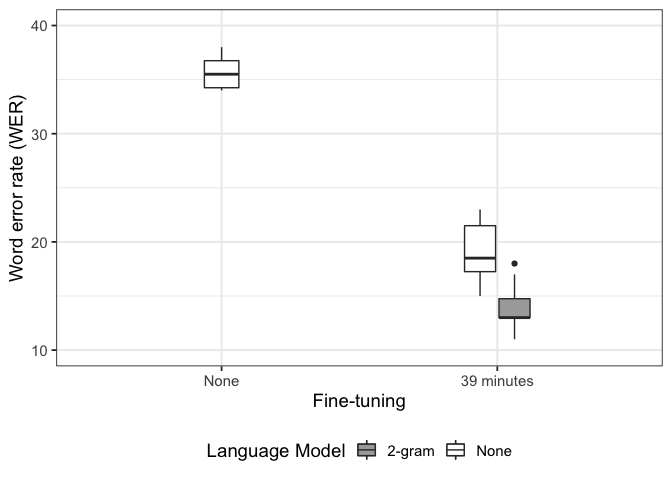
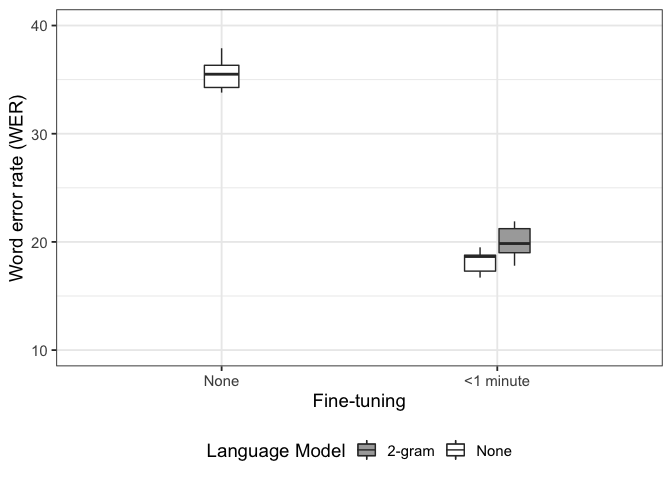
Update with new evaluations

Changed region(s): [[0.6875, 0.4688, 0.8125, 0.6875], [0.6875, 0.7812, 0.8125, 0.8125], [0.3125, 0.125, 0.375, 0.1875]]

diff --git a/scripts/exp_asr-eval.py b/scripts/exp_asr-eval.py
@@ -86,8 +86,8 @@ for model_path, testset_path in EVAL_MODELS_DATASETS:
         "model" : os.path.basename(model_path),
         "model_lm" : type(processor).__name__ == 'Wav2Vec2ProcessorWithLM',
         "testset" : os.path.basename(testset_path),
-        "wer" : round(wer(test_ds['sentence'], test_ds['transcription']), 2),
-        "cer" : round(cer(test_ds['sentence'], test_ds['transcription']), 2)
+        "wer" : round(wer(test_ds['sentence'], test_ds['transcription']), 3),
+        "cer" : round(cer(test_ds['sentence'], test_ds['transcription']), 3)
     })
 
 results_df = pd.DataFrame(EVAL_RESULTS)

diff --git a/evals/README.md b/evals/README.md
@@ -1,7 +1,7 @@
 SLI-ASR Evaluations
 ================
 Nay San
-15 April, 2022
+23 April, 2022
 
 ``` r
 library(tidyverse)
@@ -108,14 +108,17 @@ asr_results %>%
   knitr::kable()
 ```
 
-| model                              | model\_lm | testset  |  wer |  cer |
-|:-----------------------------------|:----------|:---------|-----:|-----:|
-| train-100                          | FALSE     | test.tsv | 0.11 | 0.05 |
-| train-80                           | FALSE     | test.tsv | 0.13 | 0.05 |
-| train-60                           | FALSE     | test.tsv | 0.16 | 0.06 |
-| train-40                           | FALSE     | test.tsv | 0.37 | 0.14 |
-| train-20                           | FALSE     | test.tsv | 0.98 | 0.78 |
-| wav2vec2-large-robust-ft-swbd-300h | FALSE     | test.tsv | 0.37 | 0.22 |
+| model                              | model\_lm | testset  |   wer |   cer |
+|:-----------------------------------|:----------|:---------|------:|------:|
+| train-100                          | FALSE     | test.tsv | 0.101 | 0.042 |
+| train-80                           | FALSE     | test.tsv | 0.101 | 0.044 |
+| train-60                           | FALSE     | test.tsv | 0.118 | 0.052 |
+| train-40                           | FALSE     | test.tsv | 0.123 | 0.055 |
+| train-20                           | FALSE     | test.tsv | 0.132 | 0.061 |
+| train-10                           | FALSE     | test.tsv | 0.134 | 0.061 |
+| train-05                           | FALSE     | test.tsv | 0.151 | 0.067 |
+| train-01                           | FALSE     | test.tsv | 0.191 | 0.088 |
+| wav2vec2-large-robust-ft-swbd-300h | FALSE     | test.tsv | 0.363 | 0.215 |
 
 ### Cross-validation experiments
 
@@ -127,8 +130,8 @@ asr_wers <- asr_results %>%
     wer = wer * 100,
     is_baseline = model == "wav2vec2-large-robust-ft-swbd-300h",
     
-    `Fine-tuning` = ifelse(model == "wav2vec2-large-robust-ft-swbd-300h", "None", "39 minutes"),
-    `Fine-tuning` = factor(`Fine-tuning`, levels = c("None", "39 minutes")),
+    `Fine-tuning` = ifelse(model == "wav2vec2-large-robust-ft-swbd-300h", "None", "<1 minute"),
+    `Fine-tuning` = factor(`Fine-tuning`, levels = c("None", "<1 minute")),
     `Language Model` = ifelse(model_lm, "2-gram", "None"),
     `Language Model` = factor(`Language Model`, levels = c("None", "2-gram"))
   ) 
